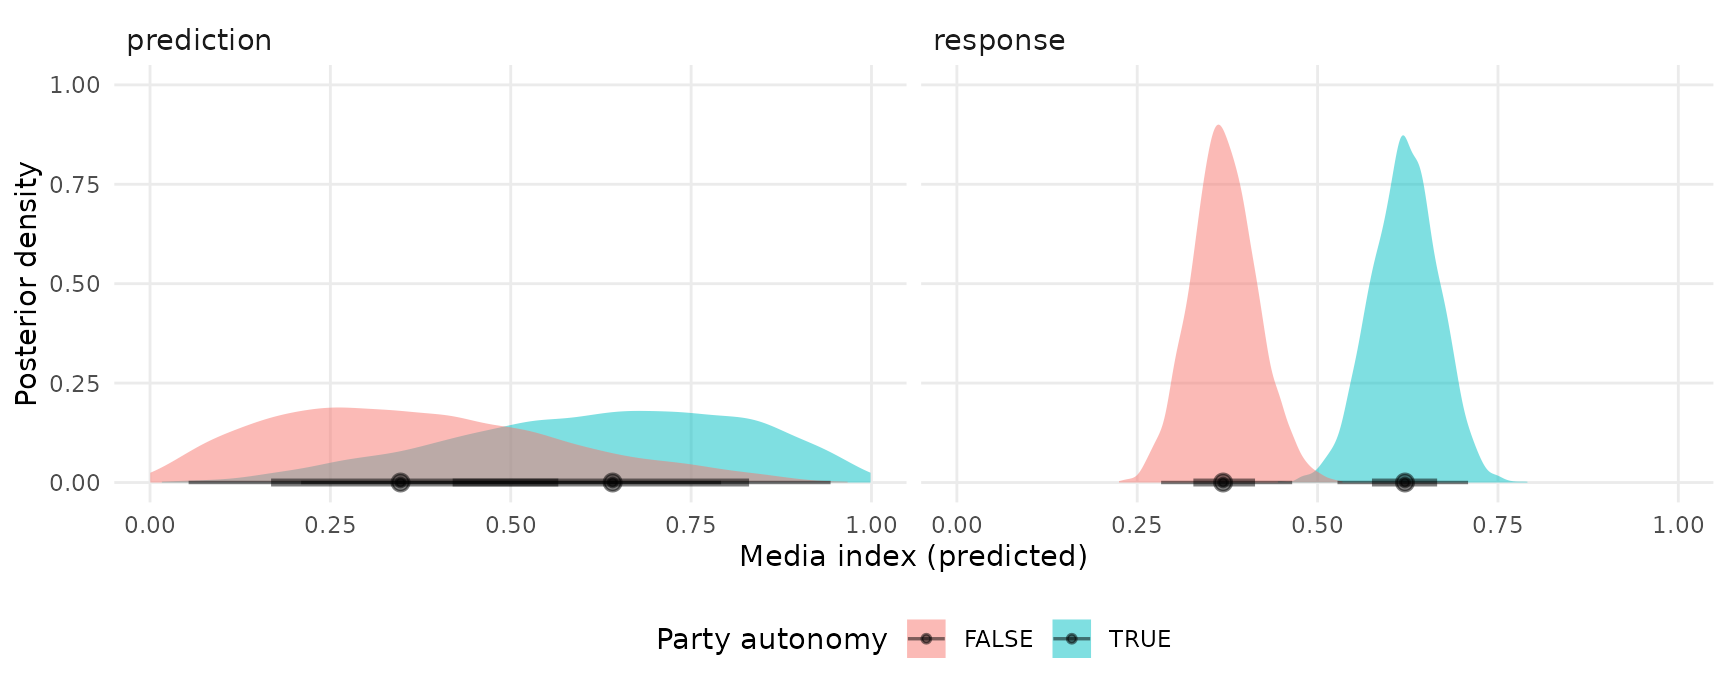
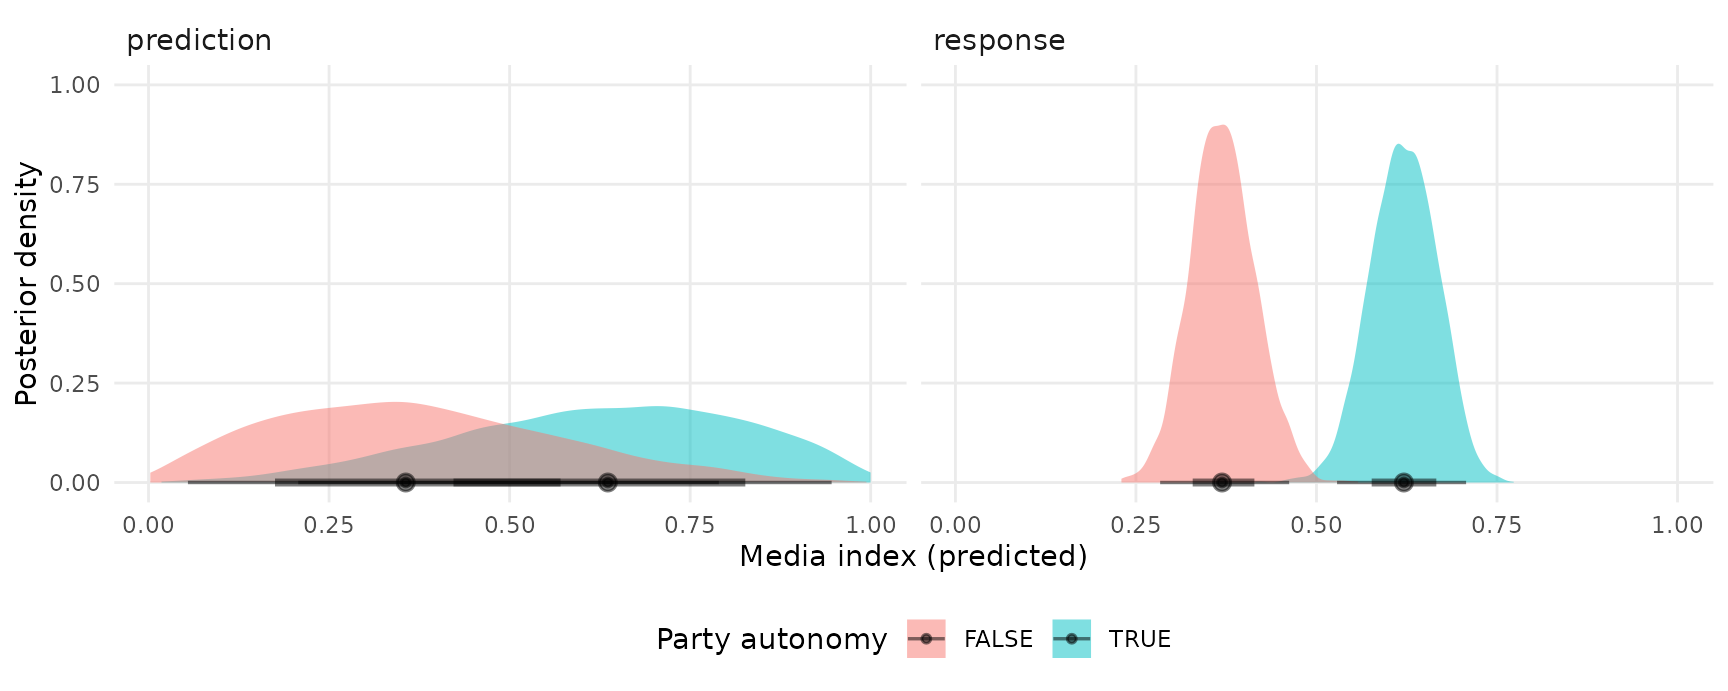
Built site for marginaleffects: 0.5.0.9000@425d67d

diff --git a/articles/brms.html b/articles/brms.html
@@ -126,12 +126,12 @@
 <code class="sourceCode R"><span class="va">pred</span> <span class="op">&lt;-</span> <span class="fu"><a href="../reference/predictions.html">predictions</a></span><span class="op">(</span><span class="va">mod</span><span class="op">)</span>
 <span class="fu"><a href="https://rdrr.io/r/utils/head.html" class="external-link">head</a></span><span class="op">(</span><span class="va">pred</span><span class="op">)</span>
 <span class="co">#&gt;   rowid     type predicted  conf.low conf.high survived woman     age</span>
-<span class="co">#&gt; 1     1 response 0.9373636 0.9074305 0.9590451        1     1 29.0000</span>
-<span class="co">#&gt; 2     2 response 0.8513351 0.7440069 0.9195178        1     0  0.9167</span>
-<span class="co">#&gt; 3     3 response 0.9438323 0.8948214 0.9702921        0     1  2.0000</span>
-<span class="co">#&gt; 4     4 response 0.5157990 0.4325403 0.6014116        0     0 30.0000</span>
-<span class="co">#&gt; 5     5 response 0.9384555 0.9069748 0.9599175        0     1 25.0000</span>
-<span class="co">#&gt; 6     6 response 0.2738011 0.2029775 0.3545948        1     0 48.0000</span>
+<span class="co">#&gt; 1     1 response 0.9364558 0.9049213 0.9592726        1     1 29.0000</span>
+<span class="co">#&gt; 2     2 response 0.8481148 0.7419967 0.9188871        1     0  0.9167</span>
+<span class="co">#&gt; 3     3 response 0.9427060 0.8901747 0.9709511        0     1  2.0000</span>
+<span class="co">#&gt; 4     4 response 0.5131733 0.4308833 0.5983806        0     0 30.0000</span>
+<span class="co">#&gt; 5     5 response 0.9375524 0.9051085 0.9603438        0     1 25.0000</span>
+<span class="co">#&gt; 6     6 response 0.2731101 0.2029312 0.3525844        1     0 48.0000</span>
 <span class="co">#&gt;   passengerClass</span>
 <span class="co">#&gt; 1            1st</span>
 <span class="co">#&gt; 2            1st</span>
@@ -150,23 +150,23 @@
                                        passengerClass <span class="op">=</span> <span class="fu"><a href="https://rdrr.io/r/base/c.html" class="external-link">c</a></span><span class="op">(</span><span class="st">"1st"</span>, <span class="st">"2nd"</span>, <span class="st">"3rd"</span><span class="op">)</span><span class="op">)</span><span class="op">)</span>
 <span class="va">pred</span>
 <span class="co">#&gt;   rowid     type  predicted   conf.low conf.high      age woman passengerClass</span>
-<span class="co">#&gt; 1     1 response 0.51750876 0.43421889 0.6030942 29.88113     0            1st</span>
-<span class="co">#&gt; 2     2 response 0.20130616 0.15160880 0.2591014 29.88113     0            2nd</span>
-<span class="co">#&gt; 3     3 response 0.08725871 0.06558882 0.1135204 29.88113     0            3rd</span>
-<span class="co">#&gt; 4     4 response 0.93715679 0.90723168 0.9589409 29.88113     1            1st</span>
-<span class="co">#&gt; 5     5 response 0.77755093 0.71128075 0.8341809 29.88113     1            2nd</span>
-<span class="co">#&gt; 6     6 response 0.57051109 0.49595149 0.6427941 29.88113     1            3rd</span></code></pre></div>
+<span class="co">#&gt; 1     1 response 0.51492428 0.43237587 0.6001432 29.88113     0            1st</span>
+<span class="co">#&gt; 2     2 response 0.20273960 0.15166817 0.2611374 29.88113     0            2nd</span>
+<span class="co">#&gt; 3     3 response 0.08801529 0.06518809 0.1150522 29.88113     0            3rd</span>
+<span class="co">#&gt; 4     4 response 0.93622835 0.90469283 0.9590670 29.88113     1            1st</span>
+<span class="co">#&gt; 5     5 response 0.77810635 0.71169048 0.8356698 29.88113     1            2nd</span>
+<span class="co">#&gt; 6     6 response 0.57028811 0.49671284 0.6422999 29.88113     1            3rd</span></code></pre></div>
 <p>The <code>posteriordraws</code> function samples from the posterior distribution of the model, and produces a data frame with <code>drawid</code> and <code>draw</code> columns.</p>
 <div class="sourceCode" id="cb8"><pre class="downlit sourceCode r">
 <code class="sourceCode R"><span class="va">pred</span> <span class="op">&lt;-</span> <span class="fu"><a href="../reference/posteriordraws.html">posteriordraws</a></span><span class="op">(</span><span class="va">pred</span><span class="op">)</span>
 <span class="fu"><a href="https://rdrr.io/r/utils/head.html" class="external-link">head</a></span><span class="op">(</span><span class="va">pred</span><span class="op">)</span>
-<span class="co">#&gt;   drawid       draw rowid     type  predicted   conf.low conf.high      age</span>
-<span class="co">#&gt; 1      1 0.50604945     1 response 0.51750876 0.43421889 0.6030942 29.88113</span>
-<span class="co">#&gt; 2      1 0.21240139     2 response 0.20130616 0.15160880 0.2591014 29.88113</span>
-<span class="co">#&gt; 3      1 0.08835128     3 response 0.08725871 0.06558882 0.1135204 29.88113</span>
-<span class="co">#&gt; 4      1 0.93021539     4 response 0.93715679 0.90723168 0.9589409 29.88113</span>
-<span class="co">#&gt; 5      1 0.77821475     5 response 0.77755093 0.71128075 0.8341809 29.88113</span>
-<span class="co">#&gt; 6      1 0.55770907     6 response 0.57051109 0.49595149 0.6427941 29.88113</span>
+<span class="co">#&gt;   drawid      draw rowid     type  predicted   conf.low conf.high      age</span>
+<span class="co">#&gt; 1      1 0.5214968     1 response 0.51492428 0.43237587 0.6001432 29.88113</span>
+<span class="co">#&gt; 2      1 0.2035948     2 response 0.20273960 0.15166817 0.2611374 29.88113</span>
+<span class="co">#&gt; 3      1 0.1095848     3 response 0.08801529 0.06518809 0.1150522 29.88113</span>
+<span class="co">#&gt; 4      1 0.9231020     4 response 0.93622835 0.90469283 0.9590670 29.88113</span>
+<span class="co">#&gt; 5      1 0.7379310     5 response 0.77810635 0.71169048 0.8356698 29.88113</span>
+<span class="co">#&gt; 6      1 0.5754761     6 response 0.57028811 0.49671284 0.6422999 29.88113</span>
 <span class="co">#&gt;   woman passengerClass</span>
 <span class="co">#&gt; 1     0            1st</span>
 <span class="co">#&gt; 2     0            2nd</span>
@@ -191,10 +191,10 @@
 <span class="fu"><a href="https://rdrr.io/r/base/summary.html" class="external-link">summary</a></span><span class="op">(</span><span class="va">mfx</span><span class="op">)</span>
 <span class="co">#&gt; Average marginal effects </span>
 <span class="co">#&gt;             Term  Contrast   Effect     2.5 %    97.5 %</span>
-<span class="co">#&gt; 1          woman     dY/dX  0.36576  0.335927  0.392318</span>
-<span class="co">#&gt; 2            age     dY/dX -0.00529 -0.007202 -0.003427</span>
-<span class="co">#&gt; 3 passengerClass 2nd - 1st -0.23921 -0.309532 -0.164022</span>
-<span class="co">#&gt; 4 passengerClass 3rd - 1st -0.39002 -0.454233 -0.322181</span>
+<span class="co">#&gt; 1          woman     dY/dX  0.36577  0.336162  0.392736</span>
+<span class="co">#&gt; 2            age     dY/dX -0.00526 -0.007085 -0.003444</span>
+<span class="co">#&gt; 3 passengerClass 2nd - 1st -0.23619 -0.305810 -0.163561</span>
+<span class="co">#&gt; 4 passengerClass 3rd - 1st -0.38759 -0.455003 -0.322198</span>
 <span class="co">#&gt; </span>
 <span class="co">#&gt; Model type:  brmsfit </span>
 <span class="co">#&gt; Prediction type:  response</span></code></pre></div>
@@ -203,16 +203,16 @@
 <code class="sourceCode R"><span class="fu"><a href="../reference/marginaleffects.html">marginaleffects</a></span><span class="op">(</span><span class="va">mod</span>,
                 newdata <span class="op">=</span> <span class="fu"><a href="../reference/datagrid.html">datagrid</a></span><span class="op">(</span>woman <span class="op">=</span> <span class="fl">1</span>,
                                    passengerClass <span class="op">=</span> <span class="st">"1st"</span><span class="op">)</span><span class="op">)</span>
-<span class="co">#&gt;   rowid     type           term  contrast         dydx     conf.low</span>
-<span class="co">#&gt; 1     1 response          woman     dY/dX  0.154488460  0.110715685</span>
-<span class="co">#&gt; 2     1 response            age     dY/dX -0.000239615 -0.001404361</span>
-<span class="co">#&gt; 3     1 response passengerClass 2nd - 1st -0.158998129 -0.222701696</span>
-<span class="co">#&gt; 4     1 response passengerClass 3rd - 1st -0.365256425 -0.434998548</span>
+<span class="co">#&gt;   rowid     type           term  contrast          dydx     conf.low</span>
+<span class="co">#&gt; 1     1 response          woman     dY/dX  0.1563960989  0.110537629</span>
+<span class="co">#&gt; 2     1 response            age     dY/dX -0.0002335898 -0.001351059</span>
+<span class="co">#&gt; 3     1 response passengerClass 2nd - 1st -0.1568298411 -0.218372395</span>
+<span class="co">#&gt; 4     1 response passengerClass 3rd - 1st -0.3641151478 -0.435309713</span>
 <span class="co">#&gt;       conf.high      age woman passengerClass</span>
-<span class="co">#&gt; 1  0.2085978318 29.88113     1            1st</span>
-<span class="co">#&gt; 2  0.0008427259 29.88113     1            1st</span>
-<span class="co">#&gt; 3 -0.1043276841 29.88113     1            1st</span>
-<span class="co">#&gt; 4 -0.2946676269 29.88113     1            1st</span></code></pre></div>
+<span class="co">#&gt; 1  0.2117403492 29.88113     1            1st</span>
+<span class="co">#&gt; 2  0.0009284386 29.88113     1            1st</span>
+<span class="co">#&gt; 3 -0.1021445541 29.88113     1            1st</span>
+<span class="co">#&gt; 4 -0.2950205951 29.88113     1            1st</span></code></pre></div>
 <p>Compute and plot conditional marginal effects:</p>
 <div class="sourceCode" id="cb12"><pre class="downlit sourceCode r">
 <code class="sourceCode R"><span class="fu"><a href="../reference/plot_cme.html">plot_cme</a></span><span class="op">(</span><span class="va">mod</span>, effect <span class="op">=</span> <span class="st">"woman"</span>, condition <span class="op">=</span> <span class="st">"age"</span><span class="op">)</span></code></pre></div>
@@ -226,19 +226,19 @@
 
 <span class="fu"><a href="https://rdrr.io/r/utils/head.html" class="external-link">head</a></span><span class="op">(</span><span class="va">draws</span><span class="op">)</span>
 <span class="co">#&gt;   drawid       draw rowid     type  term contrast       dydx   conf.low</span>
-<span class="co">#&gt; 1      1 0.16229428     1 response woman    dY/dX 0.15121666 0.10838177</span>
-<span class="co">#&gt; 2      1 0.17747559     2 response woman    dY/dX 0.13525915 0.03578961</span>
-<span class="co">#&gt; 3      1 0.06251937     3 response woman    dY/dX 0.05821175 0.02821566</span>
-<span class="co">#&gt; 4      1 0.64266081     4 response woman    dY/dX 0.65436348 0.56990054</span>
-<span class="co">#&gt; 5      1 0.14389258     5 response woman    dY/dX 0.13662470 0.09695062</span>
-<span class="co">#&gt; 6      1 0.65238080     6 response woman    dY/dX 0.70988109 0.58978701</span>
+<span class="co">#&gt; 1      1 0.16746967     1 response woman    dY/dX 0.15315121 0.10781170</span>
+<span class="co">#&gt; 2      1 0.13030382     2 response woman    dY/dX 0.13554149 0.03411699</span>
+<span class="co">#&gt; 3      1 0.07222429     3 response woman    dY/dX 0.05921574 0.02677408</span>
+<span class="co">#&gt; 4      1 0.60039944     4 response woman    dY/dX 0.65393001 0.56547362</span>
+<span class="co">#&gt; 5      1 0.15444212     5 response woman    dY/dX 0.13816922 0.09586890</span>
+<span class="co">#&gt; 6      1 0.71747863     6 response woman    dY/dX 0.70745584 0.58821899</span>
 <span class="co">#&gt;   conf.high survived woman     age passengerClass</span>
-<span class="co">#&gt; 1 0.2041583        1     1 29.0000            1st</span>
-<span class="co">#&gt; 2 0.2996535        1     0  0.9167            1st</span>
-<span class="co">#&gt; 3 0.1014724        0     1  2.0000            1st</span>
-<span class="co">#&gt; 4 0.7424637        0     0 30.0000            1st</span>
-<span class="co">#&gt; 5 0.1872947        0     1 25.0000            1st</span>
-<span class="co">#&gt; 6 0.8451226        1     0 48.0000            1st</span></code></pre></div>
+<span class="co">#&gt; 1 0.2075498        1     1 29.0000            1st</span>
+<span class="co">#&gt; 2 0.3049501        1     0  0.9167            1st</span>
+<span class="co">#&gt; 3 0.1018140        0     1  2.0000            1st</span>
+<span class="co">#&gt; 4 0.7435396        0     0 30.0000            1st</span>
+<span class="co">#&gt; 5 0.1899469        0     1 25.0000            1st</span>
+<span class="co">#&gt; 6 0.8420812        1     0 48.0000            1st</span></code></pre></div>
 <p>We can use this dataset to plot our results. For example, to plot the posterior density of the marginal effect of <code>age</code> when the <code>woman</code> variable is equal to 0 or 1:</p>
 <div class="sourceCode" id="cb14"><pre class="downlit sourceCode r">
 <code class="sourceCode R"><span class="va">mfx</span> <span class="op">&lt;-</span> <span class="fu"><a href="../reference/marginaleffects.html">marginaleffects</a></span><span class="op">(</span><span class="va">mod</span>,
@@ -324,8 +324,8 @@
                                           region <span class="op">=</span> <span class="st">"Middle East and North Africa"</span><span class="op">)</span><span class="op">)</span>
 <span class="va">mfx</span>
 <span class="co">#&gt;   rowid     type            term     contrast      dydx  conf.low conf.high</span>
-<span class="co">#&gt; 1     1 response  party_autonomy TRUE - FALSE 0.2497860 0.1679471 0.3337312</span>
-<span class="co">#&gt; 2     1 response civil_liberties        dY/dX 0.8179831 0.6269246 1.0072285</span>
+<span class="co">#&gt; 1     1 response  party_autonomy TRUE - FALSE 0.2504569 0.1686715 0.3301850</span>
+<span class="co">#&gt; 2     1 response civil_liberties        dY/dX 0.8181130 0.6291994 0.9984401</span>
 <span class="co">#&gt;   party_autonomy civil_liberties                       region</span>
 <span class="co">#&gt; 1           TRUE             0.5 Middle East and North Africa</span>
 <span class="co">#&gt; 2           TRUE             0.5 Middle East and North Africa</span></code></pre></div>
@@ -370,9 +370,9 @@
                        variables <span class="op">=</span> <span class="st">"civil_liberties"</span><span class="op">)</span>
 <span class="va">mfx</span>
 <span class="co">#&gt;   rowid     type            term      dydx  conf.low conf.high civil_liberties</span>
-<span class="co">#&gt; 1     1 response civil_liberties 0.4912452 0.3669788 0.6380839             0.2</span>
-<span class="co">#&gt; 2     2 response civil_liberties 0.8105852 0.6226945 0.9924862             0.5</span>
-<span class="co">#&gt; 3     3 response civil_liberties 0.8088033 0.6814467 0.9352848             0.8</span>
+<span class="co">#&gt; 1     1 response civil_liberties 0.4906971 0.3683769 0.6370510             0.2</span>
+<span class="co">#&gt; 2     2 response civil_liberties 0.8094386 0.6281666 0.9935967             0.5</span>
+<span class="co">#&gt; 3     3 response civil_liberties 0.8064089 0.6847116 0.9272320             0.8</span>
 <span class="co">#&gt;   party_autonomy                       region</span>
 <span class="co">#&gt; 1          FALSE Middle East and North Africa</span>
 <span class="co">#&gt; 2          FALSE Middle East and North Africa</span>
@@ -540,12 +540,12 @@
 
 <span class="fu"><a href="https://rdrr.io/r/utils/head.html" class="external-link">head</a></span><span class="op">(</span><span class="va">pred</span><span class="op">)</span>
 <span class="co">#&gt;   rowid     type group  predicted   conf.low  conf.high depvar  ic.gc  oc.gc</span>
-<span class="co">#&gt; 1     1 response    ec 0.06732573 0.04684611 0.09313263     gc 866.00 199.69</span>
-<span class="co">#&gt; 2     2 response    ec 0.07781761 0.06073860 0.09733183     gc 727.93 168.66</span>
-<span class="co">#&gt; 3     3 response    ec 0.10437635 0.06445937 0.16163564     gc 599.48 165.58</span>
-<span class="co">#&gt; 4     4 response    ec 0.06431276 0.04738280 0.08356525     er 835.17 180.88</span>
-<span class="co">#&gt; 5     5 response    ec 0.07585076 0.05936943 0.09456498     er 755.59 174.91</span>
-<span class="co">#&gt; 6     6 response    ec 0.07165217 0.04573877 0.10480952     gc 666.11 135.67</span></code></pre></div>
+<span class="co">#&gt; 1     1 response    ec 0.06604138 0.04635980 0.09127374     gc 866.00 199.69</span>
+<span class="co">#&gt; 2     2 response    ec 0.07703435 0.05931109 0.09729308     gc 727.93 168.66</span>
+<span class="co">#&gt; 3     3 response    ec 0.10454105 0.06356117 0.16153429     gc 599.48 165.58</span>
+<span class="co">#&gt; 4     4 response    ec 0.06295872 0.04641258 0.08266654     er 835.17 180.88</span>
+<span class="co">#&gt; 5     5 response    ec 0.07473244 0.05804473 0.09363988     er 755.59 174.91</span>
+<span class="co">#&gt; 6     6 response    ec 0.07047376 0.04541304 0.10469894     gc 666.11 135.67</span></code></pre></div>
 <p>Extract posterior draws and plot them:</p>
 <div class="sourceCode" id="cb34"><pre class="downlit sourceCode r">
 <code class="sourceCode R"><span class="va">draws</span> <span class="op">&lt;-</span> <span class="fu"><a href="../reference/posteriordraws.html">posteriordraws</a></span><span class="op">(</span><span class="va">pred</span><span class="op">)</span>
@@ -571,16 +571,16 @@
 <span class="fu"><a href="https://rdrr.io/r/base/summary.html" class="external-link">summary</a></span><span class="op">(</span><span class="va">mfx</span><span class="op">)</span>
 <span class="co">#&gt; Average marginal effects </span>
 <span class="co">#&gt;    Group  Term     Effect      2.5 %    97.5 %</span>
-<span class="co">#&gt; 1     ec ic.gc -1.817e-04 -4.019e-04 2.416e-05</span>
-<span class="co">#&gt; 2     ec oc.gc  4.947e-04 -4.479e-04 1.463e-03</span>
-<span class="co">#&gt; 3     er ic.gc  1.737e-05 -2.177e-04 2.422e-04</span>
-<span class="co">#&gt; 4     er oc.gc -1.035e-03 -2.071e-03 1.520e-05</span>
-<span class="co">#&gt; 5     gc ic.gc  1.367e-05 -3.620e-04 4.077e-04</span>
-<span class="co">#&gt; 6     gc oc.gc  1.054e-03 -6.501e-04 2.790e-03</span>
-<span class="co">#&gt; 7     gr ic.gc  4.050e-05 -2.445e-04 3.146e-04</span>
-<span class="co">#&gt; 8     gr oc.gc  8.651e-05 -1.121e-03 1.325e-03</span>
-<span class="co">#&gt; 9     hp ic.gc  1.102e-04 -6.778e-05 3.016e-04</span>
-<span class="co">#&gt; 10    hp oc.gc -6.002e-04 -1.470e-03 2.114e-04</span>
+<span class="co">#&gt; 1     ec ic.gc -1.883e-04 -4.111e-04 2.591e-05</span>
+<span class="co">#&gt; 2     ec oc.gc  5.123e-04 -4.237e-04 1.482e-03</span>
+<span class="co">#&gt; 3     er ic.gc  1.719e-05 -2.225e-04 2.478e-04</span>
+<span class="co">#&gt; 4     er oc.gc -1.027e-03 -2.086e-03 1.751e-06</span>
+<span class="co">#&gt; 5     gc ic.gc  1.801e-05 -3.740e-04 4.068e-04</span>
+<span class="co">#&gt; 6     gc oc.gc  1.035e-03 -6.932e-04 2.744e-03</span>
+<span class="co">#&gt; 7     gr ic.gc  4.021e-05 -2.481e-04 3.173e-04</span>
+<span class="co">#&gt; 8     gr oc.gc  8.384e-05 -1.145e-03 1.353e-03</span>
+<span class="co">#&gt; 9     hp ic.gc  1.129e-04 -6.895e-05 3.034e-04</span>
+<span class="co">#&gt; 10    hp oc.gc -6.040e-04 -1.452e-03 1.894e-04</span>
 <span class="co">#&gt; </span>
 <span class="co">#&gt; Model type:  brmsfit </span>
 <span class="co">#&gt; Prediction type:  response</span></code></pre></div>

diff --git a/articles/multiple_imputation.html b/articles/multiple_imputation.html
@@ -121,8 +121,8 @@
 <span class="va">mod_imputation</span> <span class="op">&lt;-</span> <span class="fu"><a href="https://amices.org/mice/reference/pool.html" class="external-link">pool</a></span><span class="op">(</span><span class="va">mod_imputation</span><span class="op">)</span>
 
 <span class="fu"><a href="https://rdrr.io/r/base/summary.html" class="external-link">summary</a></span><span class="op">(</span><span class="va">mod_imputation</span><span class="op">)</span>
-<span class="co">#&gt;   term    estimate std.error statistic       df      p.value</span>
-<span class="co">#&gt; 1   hp -0.06515231 0.0117223 -5.557981 27.74731 6.235712e-06</span></code></pre></div>
+<span class="co">#&gt;   term    estimate  std.error statistic       df      p.value</span>
+<span class="co">#&gt; 1   hp -0.06603672 0.01102223 -5.991231 29.53409 1.518932e-06</span></code></pre></div>
 <p>We can compare this with what the model would have looked like without any missing data. The estimates are very similar (within one standard error) and the p-value for the imputed models is slightly higher than the full model (as expected).</p>
 <div class="sourceCode" id="cb5"><pre class="downlit sourceCode r">
 <code class="sourceCode R"><span class="va">mod_missing</span> <span class="op">&lt;-</span> <span class="fu"><a href="https://rdrr.io/r/stats/lm.html" class="external-link">lm</a></span><span class="op">(</span><span class="va">mpg</span> <span class="op">~</span> <span class="va">hp</span>, data <span class="op">=</span> <span class="va">dat</span><span class="op">)</span>
@@ -162,7 +162,7 @@ hp
 −0.068
 </td>
 <td style="text-align:center;">
-−0.065
+−0.066
 </td>
 </tr>
 <tr>
@@ -175,7 +175,7 @@ hp
 (0.010)
 </td>
 <td style="text-align:center;box-shadow: 0px 1px">
-(0.012)
+(0.011)
 </td>
 </tr>
 <tr>
@@ -215,7 +215,7 @@ R2
 0.602
 </td>
 <td style="text-align:center;">
-0.529
+0.551
 </td>
 </tr>
 <tr>
@@ -229,7 +229,7 @@ R2 Adj.
 0.589
 </td>
 <td style="text-align:center;">
-0.513
+0.536
 </td>
 </tr>
 <tr>
@@ -304,7 +304,7 @@ RMSE
 
 <span class="fu"><a href="https://rdrr.io/r/base/summary.html" class="external-link">summary</a></span><span class="op">(</span><span class="va">mod_imputation</span><span class="op">)</span>
 <span class="co">#&gt;   term   estimate std.error statistic       df      p.value</span>
-<span class="co">#&gt; 1  mpg 0.04979993 0.0101041  4.928684 25.13926 4.419334e-05</span></code></pre></div>
+<span class="co">#&gt; 1  mpg 0.04930415 0.0100321  4.914641 24.76432 4.762373e-05</span></code></pre></div>
 <p>Again, we can compare this with what the model would have looked like without any missing data. The estimates, again, are very similar (within one standard error) and the p-value for the imputed models is slightly higher than the full model (as expected).</p>
 <div class="sourceCode" id="cb8"><pre class="downlit sourceCode r">
 <code class="sourceCode R"><span class="va">mod_missing</span> <span class="op">&lt;-</span> <span class="fu"><a href="https://rdrr.io/r/stats/glm.html" class="external-link">glm</a></span><span class="op">(</span><span class="va">am</span> <span class="op">~</span> <span class="va">mpg</span>, data <span class="op">=</span> <span class="va">dat</span>, family <span class="op">=</span> <span class="va">binomial</span><span class="op">)</span>
@@ -344,7 +344,7 @@ mpg
 0.046
 </td>
 <td style="text-align:center;">
-0.050
+0.049
 </td>
 </tr>
 <tr>

diff --git a/articles/mfx03_mfx.html b/articles/mfx03_mfx.html
@@ -379,11 +379,11 @@
     <span class="fu"><a href="https://dplyr.tidyverse.org/reference/mutate.html" class="external-link">mutate</a></span><span class="op">(</span>truth <span class="op">=</span> <span class="fl">1</span> <span class="op">+</span> <span class="fl">4</span> <span class="op">*</span> <span class="va">x</span><span class="op">)</span> <span class="op"><a href="https://magrittr.tidyverse.org/reference/pipe.html" class="external-link">%&gt;%</a></span>
     <span class="fu"><a href="https://dplyr.tidyverse.org/reference/select.html" class="external-link">select</a></span><span class="op">(</span><span class="va">dydx</span>, <span class="va">truth</span><span class="op">)</span>
 <span class="co">#&gt;        dydx truth</span>
-<span class="co">#&gt; 1 -6.986572    -7</span>
-<span class="co">#&gt; 2 -2.991598    -3</span>
-<span class="co">#&gt; 3  1.003376     1</span>
-<span class="co">#&gt; 4  4.998350     5</span>
-<span class="co">#&gt; 5  8.993324     9</span></code></pre></div>
+<span class="co">#&gt; 1 -6.993173    -7</span>
+<span class="co">#&gt; 2 -2.995573    -3</span>
+<span class="co">#&gt; 3  1.002027     1</span>
+<span class="co">#&gt; 4  4.999627     5</span>
+<span class="co">#&gt; 5  8.997227     9</span></code></pre></div>
 <p>We can plot conditional adjusted predictions with <code>plot_cap</code> function:</p>
 <div class="sourceCode" id="cb16"><pre class="downlit sourceCode r">
 <code class="sourceCode R"><span class="fu"><a href="../reference/plot_cap.html">plot_cap</a></span><span class="op">(</span><span class="va">mod</span>, condition <span class="op">=</span> <span class="st">"x"</span><span class="op">)</span></code></pre></div>

diff --git a/articles/gformula.html b/articles/gformula.html
@@ -284,7 +284,7 @@
     check.names <span class="op">=</span> <span class="cn">FALSE</span><span class="op">)</span>
 <span class="va">bootstrap</span></code></pre></div>
 <pre><code><span class="co">##                            estimate std.error conf.low conf.high</span>
-<span class="co">## 1 Treatment - No Treatment 3.517374 0.4970186 2.543236  4.491513</span></code></pre>
+<span class="co">## 1 Treatment - No Treatment 3.517374 0.4927491 2.551604  4.483145</span></code></pre>
 <p>The results are close to those that we obtained with <code><a href="../reference/comparisons.html">comparisons()</a></code>, but the confidence interval differs slightly because of the difference between bootstraping and the delta method.</p>
 <div class="sourceCode" id="cb21"><pre class="downlit sourceCode r">
 <code class="sourceCode R"><span class="fu"><a href="https://rdrr.io/r/base/summary.html" class="external-link">summary</a></span><span class="op">(</span><span class="va">cmp</span><span class="op">)</span></code></pre></div>
